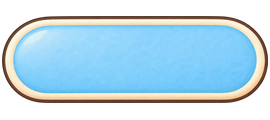
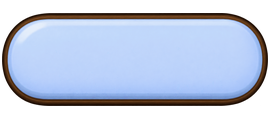
Complete ui assets: button

diff --git a/app/assets/ui/provenance/prompts-button.md b/app/assets/ui/provenance/prompts-button.md
@@ -1,0 +1,178 @@
+# UI assets: button
+
+Built-in image_gen; camera scrims and soft shadow retain the procedural corrections from commit e79fd55. References: docs/ui-reference/01-home.webp,02-zukan.webp,03-deai.webp,04-world.webp (style only, no crops).
+
+## button/primary-orange.png
+
+Final: 360x132 PNG.
+
+Prompt: Use case: stylized-concept. Create ONE production UI asset for Japanese iOS cat collection game Nekomobby: primary-orange button, empty with absolutely no text or icons. Target final aspect 360:132. Warm orange #F08A5D to #F28B20, pill silhouette radius66 target pixels, delicate warm paper texture, subtly puffy rounded bevel, thin ivory highlight along upper left edge, low contrast soft downward shadow. Match supplied home/deai UI reference aesthetic: restrained premium cozy cream stationery, not plastic or heavily 3D. Straight-on orthographic, symmetric, no perspective. Fill canvas with the wide pill plus only tiny transparent shadow clearance. Truly transparent background and clean alpha edges, no white matte, no checkerboard. Stretch-safe plain central bands at least24 final pixels. Single button only.
+
+Processing: Trim alpha margin and proportionally fit exact canvas without stretching
+
+Source: C:\Users\User\.codex\generated_images\01a16dc8-84e9-7e73-953c-375657e785a2\exec-c82a0a7b-7b34-45b7-ab84-25f2ac742390.png
+
+## button/primary-orange-pressed.png
+
+Final: 360x132 PNG.
+
+Prompt: Create ONE standalone production raster UI asset for Nekomobby cozy Japanese iOS collection game: Orange pill radius66 slightly darker sunken pressed state. File button/primary-orange-pressed.png. Target aspect 360:132, final exact 360x132px. Warm cream #FFF8F0 dark brown #4A3B32 orange #F28B20 green #5E9B3F. Restrained warm paper texture, thick rounded shapes, subtle upper-left illumination and very low contrast downward shadow. Minimal bevel, avoid thick glossy plastic. Absolutely NO text letters numbers labels or watermark. Orthographic straight-on isolated graphic, clean simple silhouette, centered with small clearance. True transparent background, smooth clean alpha no white matte no stray flecks. Not a screen mockup. Match docs/ui-reference cozy style.
+
+Processing: Trim alpha margin and proportionally fit exact canvas without stretching
+
+Source: C:\Users\User\.codex\generated_images\01a16dc8-84e9-7e73-953c-375657e785a2\exec-f0635e00-5c35-4c04-bd9d-27e1ecf014f4.png
+
+## button/primary-green.png
+
+Final: 360x132 PNG.
+
+Prompt: Create ONE standalone production raster UI asset for Nekomobby cozy Japanese iOS collection game: Green #5E9B3F blank pill radius66. File button/primary-green.png. Target aspect 360:132, final exact 360x132px. Warm cream #FFF8F0 dark brown #4A3B32 orange #F28B20 green #5E9B3F. Restrained warm paper texture, thick rounded shapes, subtle upper-left illumination and very low contrast downward shadow. Minimal bevel, avoid thick glossy plastic. Absolutely NO text letters numbers labels or watermark. Orthographic straight-on isolated graphic, clean simple silhouette, centered with small clearance. True transparent background, smooth clean alpha no white matte no stray flecks. Not a screen mockup. Match docs/ui-reference cozy style.
+
+Processing: Trim alpha margin and proportionally fit exact canvas without stretching
+
+Source: C:\Users\User\.codex\generated_images\01a16dc8-84e9-7e73-953c-375657e785a2\exec-d0c3ae03-1ead-406d-8053-d3b3169ee81a.png
+
+## button/ghost-outline.png
+
+Final: 360x132 PNG.
+
+Prompt: Create ONE standalone production raster UI asset for Nekomobby cozy Japanese iOS collection game: Cream blank pill fine orange outline radius66. File button/ghost-outline.png. Target aspect 360:132, final exact 360x132px. Warm cream #FFF8F0 dark brown #4A3B32 orange #F28B20 green #5E9B3F. Restrained warm paper texture, thick rounded shapes, subtle upper-left illumination and very low contrast downward shadow. Minimal bevel, avoid thick glossy plastic. Absolutely NO text letters numbers labels or watermark. Orthographic straight-on isolated graphic, clean simple silhouette, centered with small clearance. True transparent background, smooth clean alpha no white matte no stray flecks. Not a screen mockup. Match docs/ui-reference cozy style.
+
+Processing: Trim alpha margin and proportionally fit exact canvas without stretching
+
+Source: C:\Users\User\.codex\generated_images\01a16dc8-84e9-7e73-953c-375657e785a2\exec-d4a844ba-6f5a-4add-aa22-69d7029c919e.png
+
+## button/ghost-green.png
+
+Final: 360x132 PNG.
+
+Prompt: Create ONE standalone production raster UI asset for Nekomobby cozy Japanese iOS collection game: Cream blank pill fine green outline radius66. File button/ghost-green.png. Target aspect 360:132, final exact 360x132px. Warm cream #FFF8F0 dark brown #4A3B32 orange #F28B20 green #5E9B3F. Restrained warm paper texture, thick rounded shapes, subtle upper-left illumination and very low contrast downward shadow. Minimal bevel, avoid thick glossy plastic. Absolutely NO text letters numbers labels or watermark. Orthographic straight-on isolated graphic, clean simple silhouette, centered with small clearance. True transparent background, smooth clean alpha no white matte no stray flecks. Not a screen mockup. Match docs/ui-reference cozy style.
+
+Processing: Trim alpha margin and proportionally fit exact canvas without stretching
+
+Source: C:\Users\User\.codex\generated_images\01a16dc8-84e9-7e73-953c-375657e785a2\exec-a158dcc6-af7b-44a4-866d-2edb9b1180df.png
+
+## button/disabled.png
+
+Final: 360x132 PNG.
+
+Prompt: Create ONE standalone production raster UI asset for Nekomobby cozy Japanese iOS collection game: Muted grey beige blank pill radius66. File button/disabled.png. Target aspect 360:132, final exact 360x132px. Warm cream #FFF8F0 dark brown #4A3B32 orange #F28B20 green #5E9B3F. Restrained warm paper texture, thick rounded shapes, subtle upper-left illumination and very low contrast downward shadow. Minimal bevel, avoid thick glossy plastic. Absolutely NO text letters numbers labels or watermark. Orthographic straight-on isolated graphic, clean simple silhouette, centered with small clearance. True transparent background, smooth clean alpha no white matte no stray flecks. Not a screen mockup. Match docs/ui-reference cozy style.
+
+Processing: Trim alpha margin and proportionally fit exact canvas without stretching
+
+Source: C:\Users\User\.codex\generated_images\01a16dc8-84e9-7e73-953c-375657e785a2\exec-b005e1ed-6d1b-4c09-81e0-cc1d0fa0b760.png
+
+## button/tab-all-on.png
+
+Final: 270x120 PNG.
+
+Prompt: Create ONE standalone production raster UI asset for Nekomobby cozy Japanese iOS collection game: Blank orange filter pill radius60. File button/tab-all-on.png. Target aspect 270:120, final exact 270x120px. Warm cream #FFF8F0 dark brown #4A3B32 orange #F28B20 green #5E9B3F. Restrained warm paper texture, thick rounded shapes, subtle upper-left illumination and very low contrast downward shadow. Minimal bevel, avoid thick glossy plastic. Absolutely NO text letters numbers labels or watermark. Orthographic straight-on isolated graphic, clean simple silhouette, centered with small clearance. True transparent background, smooth clean alpha no white matte no stray flecks. Not a screen mockup. Match docs/ui-reference cozy style.
+
+Processing: Trim alpha margin and proportionally fit exact canvas without stretching
+
+Source: C:\Users\User\.codex\generated_images\01a16dc8-84e9-7e73-953c-375657e785a2\exec-c2b6c75a-fc43-4f04-b6e9-5aa6122726a5.png
+
+## button/tab-normal.png
+
+Final: 270x120 PNG.
+
+Prompt: Create ONE standalone production raster UI asset for Nekomobby cozy Japanese iOS collection game: Blank beige filter pill radius60. File button/tab-normal.png. Target aspect 270:120, final exact 270x120px. Warm cream #FFF8F0 dark brown #4A3B32 orange #F28B20 green #5E9B3F. Restrained warm paper texture, thick rounded shapes, subtle upper-left illumination and very low contrast downward shadow. Minimal bevel, avoid thick glossy plastic. Absolutely NO text letters numbers labels or watermark. Orthographic straight-on isolated graphic, clean simple silhouette, centered with small clearance. True transparent background, smooth clean alpha no white matte no stray flecks. Not a screen mockup. Match docs/ui-reference cozy style.
+
+Processing: Trim alpha margin and proportionally fit exact canvas without stretching
+
+Source: C:\Users\User\.codex\generated_images\01a16dc8-84e9-7e73-953c-375657e785a2\exec-7cb62b7a-6d13-4354-9e16-6b426c182b98.png
+
+## button/tab-rare.png
+
+Final: 270x120 PNG.
+
+Prompt: Edit the reference pill button: change ONLY its cream interior fill to pale sky blue #BFD8FF. Preserve exactly the outer brown rim shape, position, corner radius, border thickness, lighting, shadow and canvas proportions. Empty center, NO text symbols ornaments or added outlines. Same geometry as input. True transparent background. Target final270x120.
+
+Processing: Trim alpha margin and proportionally fit exact canvas without stretching
+
+Source: C:\Users\User\.codex\generated_images\01a16dc8-84e9-7e73-953c-375657e785a2\exec-f0a3260b-450e-4ffe-ad82-c49875ac68bd.png
+
+Superseded attempt: C:\Users\User\.codex\generated_images\01a16dc8-84e9-7e73-953c-375657e785a2\exec-674d29ac-4817-4064-8a0a-bc67ab9ec1ad.png
+
+Prompt: Create ONE standalone production raster UI asset for Nekomobby cozy Japanese iOS collection game: Blank sky blue filter pill radius60. File button/tab-rare.png. Target aspect 270:120, final exact 270x120px. Warm cream #FFF8F0 dark brown #4A3B32 orange #F28B20 green #5E9B3F. Restrained warm paper texture, thick rounded shapes, subtle upper-left illumination and very low contrast downward shadow. Minimal bevel, avoid thick glossy plastic. Absolutely NO text letters numbers labels or watermark. Orthographic straight-on isolated graphic, clean simple silhouette, centered with small clearance. True transparent background, smooth clean alpha no white matte no stray flecks. Not a screen mockup. Match docs/ui-reference cozy style.
+
+## button/tab-limited.png
+
+Final: 270x120 PNG.
+
+Prompt: Create ONE standalone production raster UI asset for Nekomobby cozy Japanese iOS collection game: Blank lavender #E1D4FF filter pill radius60. File button/tab-limited.png. Target aspect 270:120, final exact 270x120px. Warm cream #FFF8F0 dark brown #4A3B32 orange #F28B20 green #5E9B3F. Restrained warm paper texture, thick rounded shapes, subtle upper-left illumination and very low contrast downward shadow. Minimal bevel, avoid thick glossy plastic. Absolutely NO text letters numbers labels or watermark. Orthographic straight-on isolated graphic, clean simple silhouette, centered with small clearance. True transparent background, smooth clean alpha no white matte no stray flecks. Not a screen mockup. Match docs/ui-reference cozy style.
+
+Processing: Trim alpha margin and proportionally fit exact canvas without stretching
+
+Source: C:\Users\User\.codex\generated_images\01a16dc8-84e9-7e73-953c-375657e785a2\exec-d9139d6f-4f57-4669-8e0a-d53d879184fe.png
+
+## button/camera-round.png
+
+Final: 330x330 PNG.
+
+Prompt: Create ONE standalone production raster UI asset for Nekomobby cozy Japanese iOS collection game: Circular ivory button thin gold double rim with dark brown simple camera symbol only. File button/camera-round.png. Target aspect 330:330, final exact 330x330px. Warm cream #FFF8F0 dark brown #4A3B32 orange #F28B20 green #5E9B3F. Restrained warm paper texture, thick rounded shapes, subtle upper-left illumination and very low contrast downward shadow. Minimal bevel, avoid thick glossy plastic. Absolutely NO text letters numbers labels or watermark. Orthographic straight-on isolated graphic, clean simple silhouette, centered with small clearance. True transparent background, smooth clean alpha no white matte no stray flecks. Not a screen mockup. Match docs/ui-reference cozy style.
+
+Processing: Trim alpha margin and proportionally fit exact canvas without stretching
+
+Source: C:\Users\User\.codex\generated_images\01a16dc8-84e9-7e73-953c-375657e785a2\exec-0db80eaf-abca-49a7-a9fd-6f9921b42e7c.png
+
+## button/bell-round.png
+
+Final: 168x168 PNG.
+
+Prompt: Create ONE standalone production raster UI asset for Nekomobby cozy Japanese iOS collection game: Circular cream button dark brown bell symbol. File button/bell-round.png. Target aspect 168:168, final exact 168x168px. Warm cream #FFF8F0 dark brown #4A3B32 orange #F28B20 green #5E9B3F. Restrained warm paper texture, thick rounded shapes, subtle upper-left illumination and very low contrast downward shadow. Minimal bevel, avoid thick glossy plastic. Absolutely NO text letters numbers labels or watermark. Orthographic straight-on isolated graphic, clean simple silhouette, centered with small clearance. True transparent background, smooth clean alpha no white matte no stray flecks. Not a screen mockup. Match docs/ui-reference cozy style.
+
+Processing: Trim alpha margin and proportionally fit exact canvas without stretching
+
+Source: C:\Users\User\.codex\generated_images\01a16dc8-84e9-7e73-953c-375657e785a2\exec-229ec73b-93a4-45cc-9346-b1e9a8c6ea41.png
+
+## button/bell-badge.png
+
+Final: 54x54 PNG.
+
+Prompt: Create ONE standalone production raster UI asset for Nekomobby cozy Japanese iOS collection game: Single coral red notification dot. File button/bell-badge.png. Target aspect 54:54, final exact 54x54px. Warm cream #FFF8F0 dark brown #4A3B32 orange #F28B20 green #5E9B3F. Restrained warm paper texture, thick rounded shapes, subtle upper-left illumination and very low contrast downward shadow. Minimal bevel, avoid thick glossy plastic. Absolutely NO text letters numbers labels or watermark. Orthographic straight-on isolated graphic, clean simple silhouette, centered with small clearance. True transparent background, smooth clean alpha no white matte no stray flecks. Not a screen mockup. Match docs/ui-reference cozy style.
+
+Processing: Trim alpha margin and proportionally fit exact canvas without stretching
+
+Source: C:\Users\User\.codex\generated_images\01a16dc8-84e9-7e73-953c-375657e785a2\exec-033a5cee-cd34-41c0-acc7-182ec4563aec.png
+
+## button/chip-detail.png
+
+Final: 300x108 PNG.
+
+Prompt: Create ONE standalone production raster UI asset for Nekomobby cozy Japanese iOS collection game: Cream small pill with brown magnifier on LEFT leave center empty. File button/chip-detail.png. Target aspect 300:108, final exact 300x108px. Warm cream #FFF8F0 dark brown #4A3B32 orange #F28B20 green #5E9B3F. Restrained warm paper texture, thick rounded shapes, subtle upper-left illumination and very low contrast downward shadow. Minimal bevel, avoid thick glossy plastic. Absolutely NO text letters numbers labels or watermark. Orthographic straight-on isolated graphic, clean simple silhouette, centered with small clearance. True transparent background, smooth clean alpha no white matte no stray flecks. Not a screen mockup. Match docs/ui-reference cozy style.
+
+Processing: Trim alpha margin and proportionally fit exact canvas without stretching
+
+Source: C:\Users\User\.codex\generated_images\01a16dc8-84e9-7e73-953c-375657e785a2\exec-040836b7-e45c-4b27-ad1c-d0368df80fdc.png
+
+## button/chip-favorite-on.png
+
+Final: 330x132 PNG.
+
+Prompt: Create ONE standalone production raster UI asset for Nekomobby cozy Japanese iOS collection game: Cream pill orange border filled coral heart LEFT, empty center. File button/chip-favorite-on.png. Target aspect 330:132, final exact 330x132px. Warm cream #FFF8F0 dark brown #4A3B32 orange #F28B20 green #5E9B3F. Restrained warm paper texture, thick rounded shapes, subtle upper-left illumination and very low contrast downward shadow. Minimal bevel, avoid thick glossy plastic. Absolutely NO text letters numbers labels or watermark. Orthographic straight-on isolated graphic, clean simple silhouette, centered with small clearance. True transparent background, smooth clean alpha no white matte no stray flecks. Not a screen mockup. Match docs/ui-reference cozy style.
+
+Processing: Trim alpha margin and proportionally fit exact canvas without stretching
+
+Source: C:\Users\User\.codex\generated_images\01a16dc8-84e9-7e73-953c-375657e785a2\exec-133b926c-f36f-4999-b70a-12f0a0b4b79f.png
+
+## button/chip-favorite-off.png
+
+Final: 330x132 PNG.
+
+Prompt: Create ONE standalone production raster UI asset for Nekomobby cozy Japanese iOS collection game: Cream pill pale border outline brown heart LEFT, empty center. File button/chip-favorite-off.png. Target aspect 330:132, final exact 330x132px. Warm cream #FFF8F0 dark brown #4A3B32 orange #F28B20 green #5E9B3F. Restrained warm paper texture, thick rounded shapes, subtle upper-left illumination and very low contrast downward shadow. Minimal bevel, avoid thick glossy plastic. Absolutely NO text letters numbers labels or watermark. Orthographic straight-on isolated graphic, clean simple silhouette, centered with small clearance. True transparent background, smooth clean alpha no white matte no stray flecks. Not a screen mockup. Match docs/ui-reference cozy style.
+
+Processing: Trim alpha margin and proportionally fit exact canvas without stretching
+
+Source: C:\Users\User\.codex\generated_images\01a16dc8-84e9-7e73-953c-375657e785a2\exec-a2e2d4cc-4a10-4d22-9f6c-93fc867cf36d.png
+
+## button/search-bar.png
+
+Final: 1100x150 PNG.
+
+Prompt: Create ONE standalone production raster UI asset for Nekomobby cozy Japanese iOS collection game: Blank long cream search pill radius75 with brown magnifier at LEFT. File button/search-bar.png. Target aspect 1100:150, final exact 1100x150px. Warm cream #FFF8F0 dark brown #4A3B32 orange #F28B20 green #5E9B3F. Restrained warm paper texture, thick rounded shapes, subtle upper-left illumination and very low contrast downward shadow. Minimal bevel, avoid thick glossy plastic. Absolutely NO text letters numbers labels or watermark. Orthographic straight-on isolated graphic, clean simple silhouette, centered with small clearance. True transparent background, smooth clean alpha no white matte no stray flecks. Not a screen mockup. Match docs/ui-reference cozy style.
+
+Processing: Trim alpha margin and proportionally fit exact canvas without stretching
+
+Source: C:\Users\User\.codex\generated_images\01a16dc8-84e9-7e73-953c-375657e785a2\exec-1a903380-a8c5-422a-8a24-6cd65fda4468.png
+
